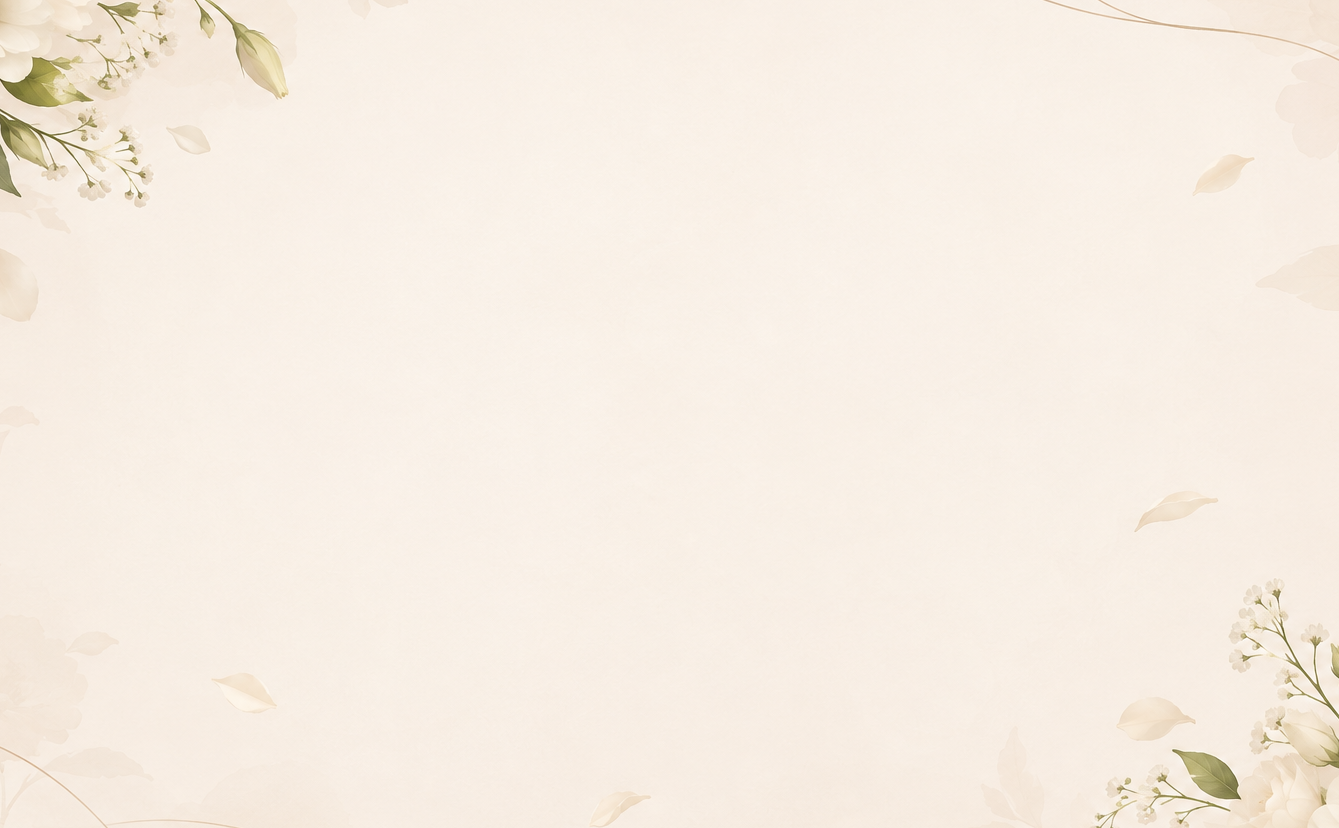
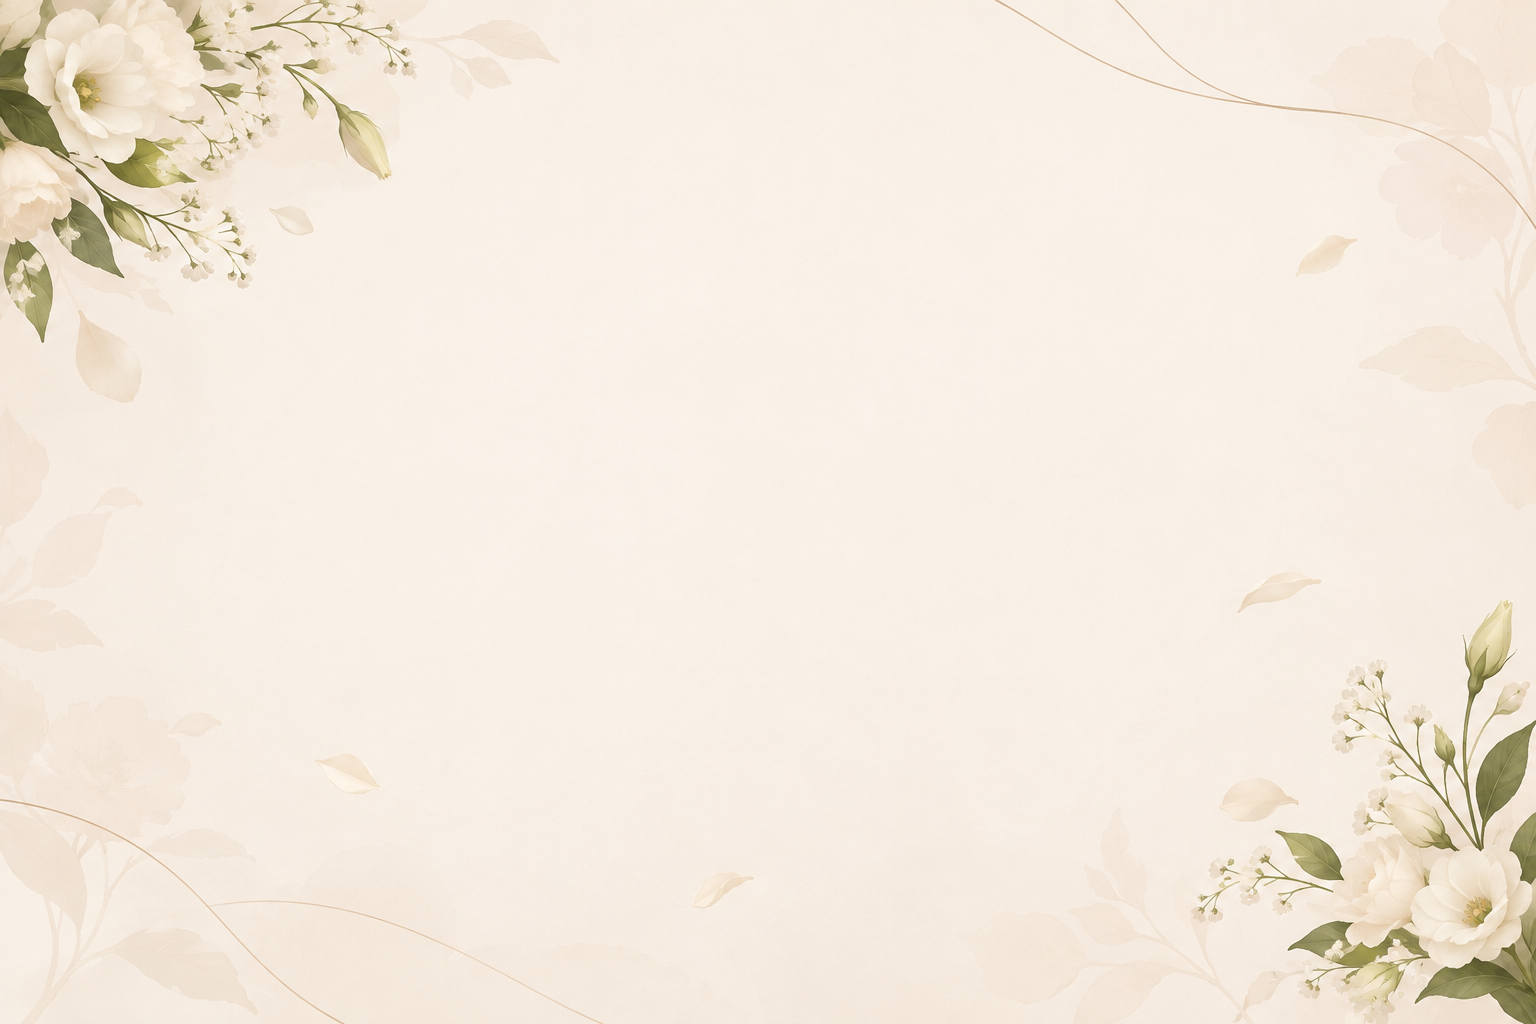
add bg img

diff --git a/components/ContactSection.tsx b/components/ContactSection.tsx
@@ -2,9 +2,12 @@ import { Clock, MapPin, MessageCircle, Phone } from "lucide-react";
 
 export default function ContactSection() {
   return (
-    <section className="relative overflow-hidden border-t border-[#eadfdc]" style={{
-        backgroundImage: "url('/contact-bg.png')",
-    }}>
+    <section
+        className="relative overflow-hidden border-t border-[#eadfdc] bg-cover bg-center bg-no-repeat"
+        style={{
+            backgroundImage: "url('/contact-bg.png')",
+        }}
+    >
       {/* Decorative elements */}
       <div className="pointer-events-none absolute -left-24 -top-24 h-50 w-56 rounded-full bg-[var(--color-primary)]/5" />
       <div className="pointer-events-none absolute -bottom-32 -right-20 h-64 w-64 rounded-full border border-[var(--color-primary)]/10" />

diff --git a/components/IntroSection.tsx b/components/IntroSection.tsx
@@ -95,7 +95,7 @@ export default function IntroSection() {
               {/* Image */}
               <div className="absolute inset-[3px] z-10 overflow-hidden rounded-full bg-[var(--color-bg-light)]">
                 <img
-                  src="/netviet-intro.png"
+                  src="/netviet.jpg"
                   alt="Nét Việt Florist"
                   className="h-full w-full object-contain"
                 />
